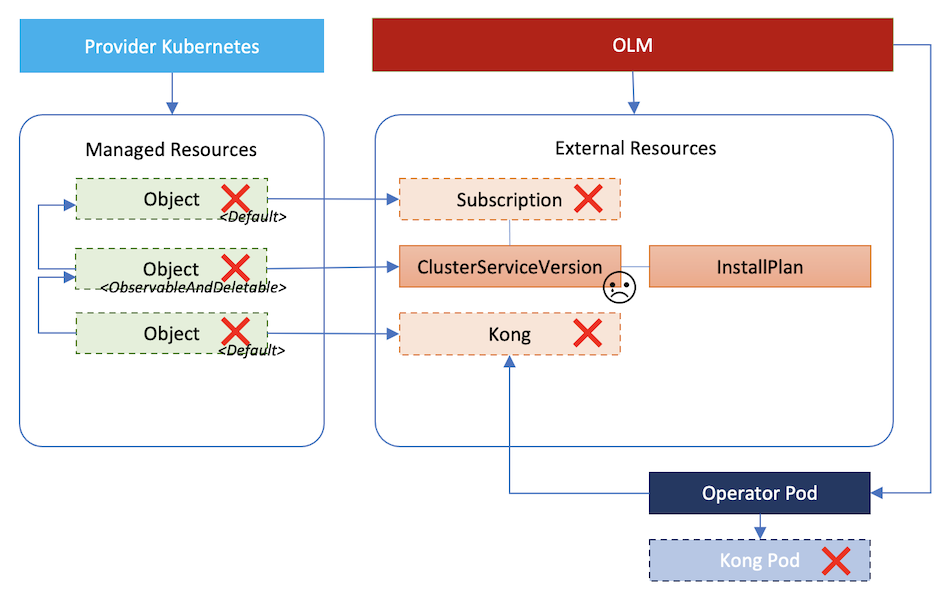
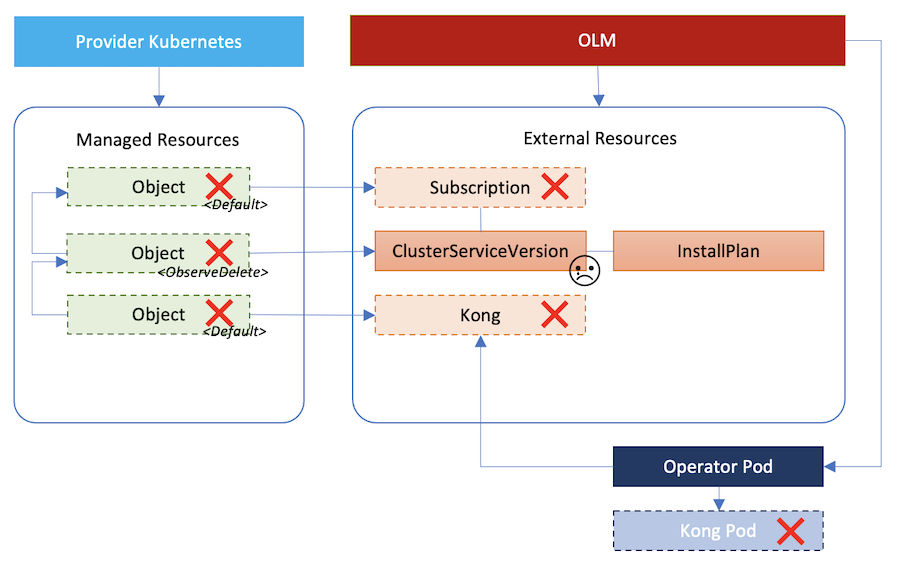
Update enhanced-provider-k8s.md to reflect the review comments

Changed region(s): [[0.0, 0.0, 0.9956, 0.9877], [0.4044, 0.1496, 0.9333, 0.2694]]

diff --git a/docs/enhanced-provider-k8s.md b/docs/enhanced-provider-k8s.md
@@ -57,11 +57,13 @@ By convention in Crossplane, we usually call `Object` as managed resource, and t
 
 ## Why Provider Kubernetes
 
-When using Provider Kubernetes, you may think that it does not add too much value if it just wraps Kubernetes resource manifest as `Object` then does the transformation between the `Object` resource and the actual Kubernetes resource. This is because user can manage Kubernetes resource directly without using `Object` and the provider. They can manage Kubernetes resource either manually using command line tool such as kubectl or programmatically using normal Kubernetes controller.
+The major usage scenario of Provider Kubernetes is to provision and manage Kubernetes objects on Kubernetes clusters, especially on remote clusters. It wraps Kubernetes resource manifest in `Object` resource, then does transformation from the `Object` resource to the actual Kubernetes resource on target clusters. With that, you can apply arbitrary Kubernetes resources on target clusters.
 
-It also does not add too much value when we compose `Object` with other resources managed by other providers in a Crossplane `Composition` resource. This is because, instead of defining `Object` resources in a `Composition`, we can define the actual Kubernetes resources in `Composition` directly.
+Of course you can manage Kubernetes resource directly without leveraging the provider and its `Object`, e.g.: using command line tool such as kubectl manually or normal Kubernetes controller programmatically. However, if you are using Crossplane and want to rely on Crossplane to deliver such a capability, Provider Kubernetes is the best choice.
 
-Now the question comes up. Why we need Provider Kubernetes and `Object` if we can manipulate Kubernetes resource directly? The answer is no you needn't, unless you need more powerful features to manage Kubernetes resource. Start from next section, I will share with you my recent research findings on how an enhanced version of Provider Kubernetes can bring more values to the deployment and management of arbitrary Kubernetes resources, by leveraging some new features such as resource management policy and resource reference.
+On the other hand, when composing arbitrary Kubernetes resources with other resources managed by other providers in a Crossplane `Composition` resource, you can use `Object` to wrap those Kubernetes resources so that you don't need to worry about the restriction that the Kubernetes resources appeared in `Composition` has to be cluster scoped. 
+
+Moreover, start from next section, I will share with you my recent research findings on how an enhanced version of Provider Kubernetes can bring more values to the deployment and management of arbitrary Kubernetes resources, by leveraging some new features such as resource management policy and resource reference.
 
 ## Enhanced Provider Kubernetes
 
@@ -139,12 +141,12 @@ The resource management policy is used to instruct the provider to manage Kubern
 
 We only need 4 types of management policies:
 
-| Observe | Create & Update | Delete | Management Policy      | Memo
-|:--------|:----------------|:-------|:-----------------------|:----
-| Y       | Y               | Y      | Default                | The provider can fully manage the resource. This is the default policy.
-| Y       | Y               | N      | Undeletable            | The provider can observe, create, or update the resource, but can not delete it. 
-| Y       | N               | Y      | ObservableAndDeletable | The provider can observe or delete the resource, but can not create and update it.
-| Y       | N               | N      | Observable             | The provider can only observe the resource. This maps to the read-only scenario where the resource is fully controlled by third party application and the provider only reads the status of the resource.
+| Observe | Create & Update | Delete | Management Policy   | Memo
+|:--------|:----------------|:-------|:--------------------|:----
+| Y       | Y               | Y      | Default             | The provider can fully manage the resource. This is the default policy.
+| Y       | Y               | N      | ObserveCreateUpdate | The provider can observe, create, or update the resource, but can not delete it. 
+| Y       | N               | Y      | ObserveDelete       | The provider can observe or delete the resource, but can not create and update it.
+| Y       | N               | N      | Observe             | The provider can only observe the resource. This maps to the read-only scenario where the resource is fully controlled by third party application and the provider only reads the status of the resource.
 
 The idea of Resource Management Policy is actually expanded from the concept of `DeletionPolicy` in Crossplane which can be found in Crossplane code:
 
@@ -160,9 +162,16 @@ const (
 )
 ```
 
-The `DeletionOrphan` policy is actually equivalent to the `Undeletable` resource management policy.
+The `DeletionOrphan` policy is actually equivalent to the `ObserveCreateUpdate` resource management policy.
 
-Now, let's define policy for our `Object` resource that represents the `ClusterServiceVersion` resource. In our case, we should use `ObservableAndDeletable` policy. Because the policies in the enhanced provider are implemented as Kubernetes annotations, you just need to specify the policy by adding an annotation to the `Object` resource. For example:
+Please note that currently the resource management policy and DeletionPolicy are two separate mechanisms to declare the resource policy at different level: Crossplane runtime level vs. provider level. To avoid the potential conflict or confusion, it is highly recommended to use the policy at provider level over Crossplane runtime level when you use Provider Kubernetes as the provider level policy is a super set of Crossplane runtime level policy and has more options.
+
+When both are defined, to determine if the resource can be deleted or not, both policies need to be considered, and the one at Crossplane runtime level will be taken into account at first. That means:
+
+* If `DeletionPolicy` is defined, then the resource will not be deleted by provider, no matter what policy is defined at provider level.
+* If `DeletionDelete` is defined, then relying on the policy defined at provider level, if `ObserveCreateUpdate` or `Observe` is specified, then the resource will not be deleted, otherwise, it will be deleted by the provider.
+
+Now, let's define policy for our `Object` resource that represents the `ClusterServiceVersion` resource. In our case, we should use `ObserveDelete` policy. Because the policies in the enhanced provider are implemented as Kubernetes annotations, you just need to specify the policy by adding an annotation to the `Object` resource. For example:
 
 ```yaml
 apiVersion: kubernetes.crossplane.io/v1alpha1
@@ -170,7 +179,7 @@ kind: Object
 metadata:
   name: csv-kong
   annotations:
-    kubernetes.crossplane.io/managementType: "ObservableAndDeletable"
+    kubernetes.crossplane.io/managementType: "ObserveDelete"
 spec:
   forProvider:
     manifest:
@@ -233,7 +242,7 @@ kind: Object
 metadata:
   name: csv-kong
   annotations:
-    kubernetes.crossplane.io/managementType: "ObservableAndDeletable"
+    kubernetes.crossplane.io/managementType: "ObserveDelete"
 spec:
   references:
   - fromObject:
